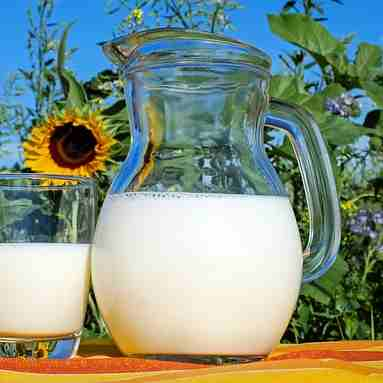
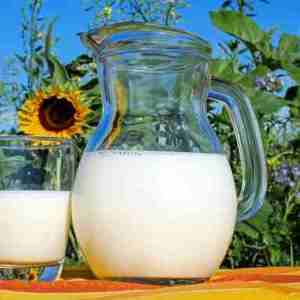
Resize images

diff --git a/resources/lang/en/default.php b/resources/lang/en/default.php
@@ -24,7 +24,7 @@ return [
 
     'notification' => 'Notification',
     'completedAllLevels' => 'You have completed all levels in this topic.',
-    'completedAllSkills' => 'Congratulations!. You have completed reading, listening, and writing skills at this level.',
+    'completedAllSkills' => 'Congratulations! You have completed reading, listening, and writing skills at this level.',
 
     'food_and_drink' => 'Food and Drink',
     'clothing' => 'Clothing',
